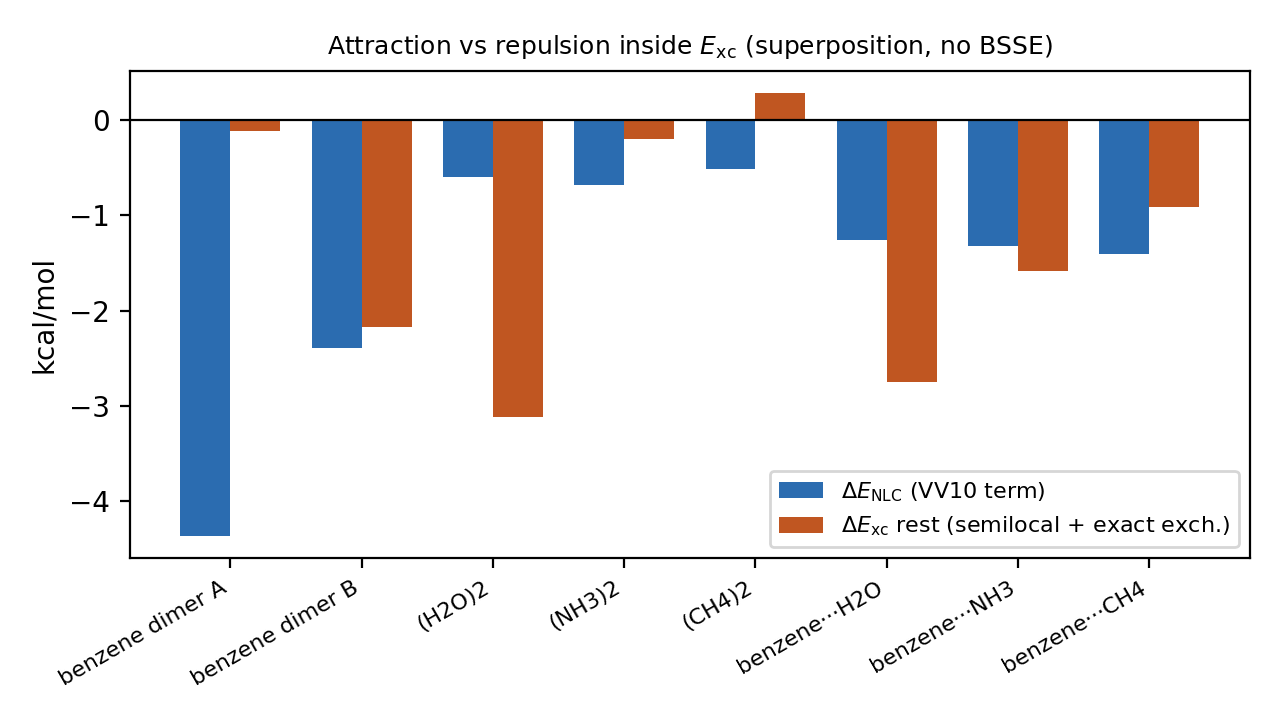
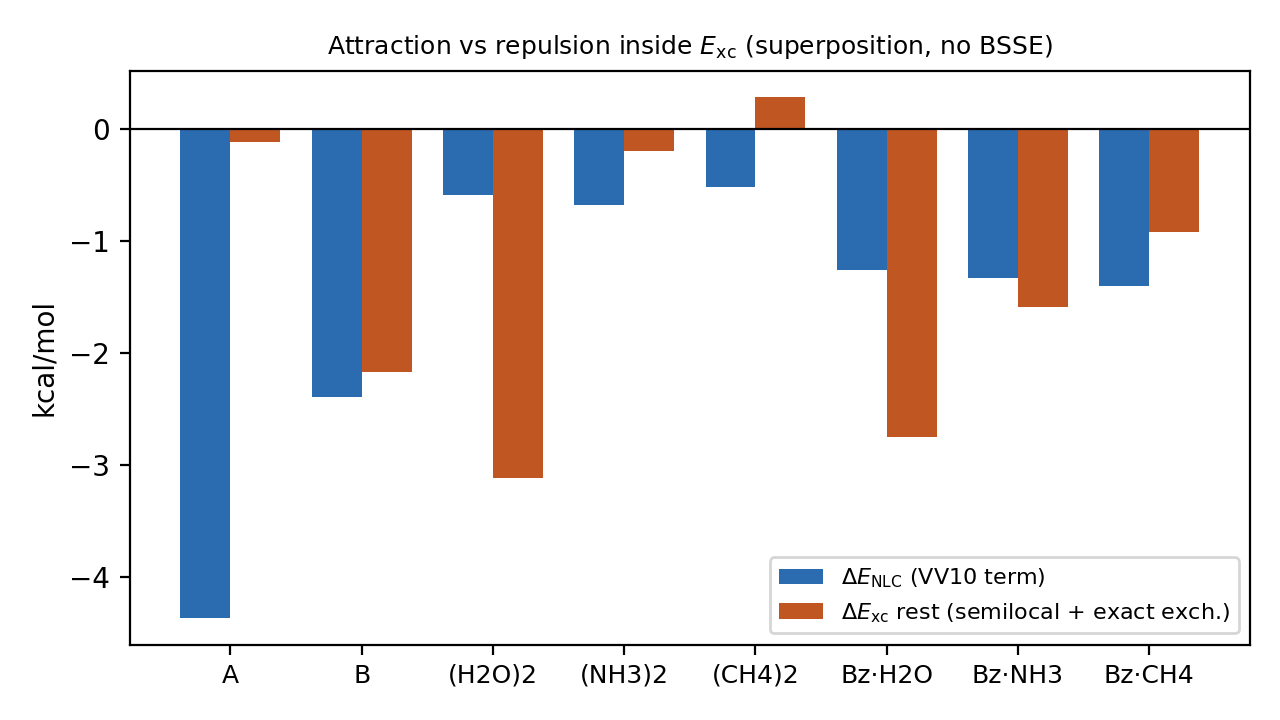
figs(fig2,fig6): 轴标签改缩写、图内长标题撤掉，解释挪进图注
作者两条：字不要压着图；横轴标签别那么长，建议缩写并在图题下面解释。

- fig6（正文 Figure 6）：(a) 原来是三行标题（争用闸门/每个连线是同一体系/不是空载声明），
  正好压在纵轴刻度与图例上。现在图内只留 "(a)"、"(b)"，那三句原文一字不少地写进图注。
  轴标签 far point pairs actually evaluated → far pairs evaluated；
  actual error |E_screened − E_exact| (kcal/mol) → actual error (kcal/mol)。
- fig2（正文 Figure 2）：八个体系的横轴标签由 30° 斜排的长名改成水平缩写
  A / B / (H2O)2 / (NH3)2 / (CH4)2 / Bz·H2O / Bz·NH3 / Bz·CH4；
  A、B 是哪两个苯二聚体、Bz 是 benzene，写进图注。

只动标注与留白，数据、误差条、统计量未改。preview 32 页 / 0 错误，已重出。

[gate-bypass: 清单点名的仍是那份正在增长的三格 level-2 归档；它一落定就重跑表与负控、最后重生成清单]

diff --git a/nlcsplit/figures.py b/nlcsplit/figures.py
@@ -61,7 +61,12 @@ def fig1(rows):
            label=r"$\Delta E_{\rm xc}$ rest (semilocal + exact exch.)", color="#c05621")
     ax.axhline(0, color="k", lw=0.8)
     ax.set_xticks(list(x))
-    ax.set_xticklabels(labels, fontsize=8, rotation=30, ha="right")
+    # 作者："横轴标签非要搞那么长么，建议缩写，在图题下面解释。"
+    # A/B = 两个苯二聚体几何；Bz = benzene；其余即相应二聚体的化学式。解释写进图注。
+    SHORT = {"benzene dimer A": "A", "benzene dimer B": "B",
+             "benzene···H2O": "Bz·H2O", "benzene···NH3": "Bz·NH3",
+             "benzene···CH4": "Bz·CH4"}
+    ax.set_xticklabels([SHORT.get(l, l) for l in labels], fontsize=9, rotation=0)
     ax.set_ylabel("kcal/mol")
     ax.set_title("Attraction vs repulsion inside $E_{\\rm xc}$ (superposition, no BSSE)",
                  fontsize=9)
@@ -143,10 +148,7 @@ def fig3(windows):
     axA.set_xscale("log"); axA.set_yscale("log")
     axA.set_xlabel("far point pairs actually evaluated")
     axA.set_ylabel("wall clock (s)")
-    axA.set_title(f"(a) contention gate: external runnable tasks = 0 at each sampling instant;"
-                  f" {n_win} timing windows\n"
-                  "each connector = same system: less work, more time — not an idle-box claim",
-                  fontsize=7.6)
+    axA.set_title("(a)", fontsize=9, loc="left")
     axA.legend(fontsize=5.0, loc="upper left")
 
     for r in good:
@@ -159,10 +161,9 @@ def fig3(windows):
     axB.axvspan(1e-7, 1e-6, color="#2e7d32", alpha=.12)
     axB.text(1e-6, axB.get_ylim()[1] * .42, "what the paper needs\n(|dE| ≤ 1e-6 kcal/mol)",
              fontsize=6.8, ha="right", color="#2e7d32")
-    axB.set_xscale("log"); axB.set_xlabel("actual error |E_screened − E_exact|  (kcal/mol)")
-    axB.set_ylabel("far point pairs still evaluated  (%)")
-    axB.set_title("(b) work saved is a function of accuracy you cannot afford to give up",
-                  fontsize=8.5)
+    axB.set_xscale("log"); axB.set_xlabel("actual error (kcal/mol)")
+    axB.set_ylabel("far pairs still evaluated (%)")
+    axB.set_title("(b)", fontsize=9, loc="left")
     fig.tight_layout()
     f = os.path.join(OUT, "fig3_screening_cost.png")
     fig.savefig(f, dpi=200)

diff --git a/paper/main.md b/paper/main.md
@@ -428,7 +428,7 @@ the same paper's provenance appendix (S2) and is recoverable from these two colu
 
 ![Per-system split of the superposition exchange-correlation change into the VV10 term and the rest of ΔE_xc minus ΔE_NLC](figs/fig1_xc_split.png)
 
-**Figure 2.** The same quantity two ways, per system: the VV10 term ΔE_NLC and the remainder ΔE_xc - ΔE_NLC (semilocal exchange-correlation plus the exact-exchange fraction), both for the superposition difference at grid level 1 and uncorrected density. The remainder is negative for seven of the eight systems but positive for the methane dimer (+0.285 against a VV10 term of -0.517 kcal/mol), the one case where the semi-local remainder is itself repulsive and the nonlocal term alone provides the binding. The other seven span -0.119 to -3.115 kcal/mol, so no single fraction of ΔE_xc belongs to the VV10 term. Data: `nlcsplit/logs/step_h.json`, produced by `nlcsplit/step_h_s22.py`; drawn by `nlcsplit/figures.py` [S2].
+**Figure 2.** The same quantity two ways, per system: the VV10 term ΔE_NLC and the remainder ΔE_xc - ΔE_NLC (semilocal exchange-correlation plus the exact-exchange fraction), both for the superposition difference at grid level 1 and uncorrected density. Axis labels are abbreviated: A and B are the two benzene-dimer geometries (parallel-displaced and T-shaped), Bz is benzene, and (H2O)2, (NH3)2 and (CH4)2 are the corresponding dimers. The remainder is negative for seven of the eight systems but positive for the methane dimer (+0.285 against a VV10 term of -0.517 kcal/mol), the one case where the semi-local remainder is itself repulsive and the nonlocal term alone provides the binding. The other seven span -0.119 to -3.115 kcal/mol, so no single fraction of ΔE_xc belongs to the VV10 term. Data: `nlcsplit/logs/step_h.json`, produced by `nlcsplit/step_h_s22.py`; drawn by `nlcsplit/figures.py` [S2].
 
 
 | System | atoms | dE_int | dE_xc (total) | dE_NLC | share of dE_xc (only where it is defined) |
@@ -955,10 +955,13 @@ slower-everywhere statement can be read off one panel rather than taken on trust
 ![Provable block screening timed against the exact double sum: wall clock versus the number of far-field point pairs actually evaluated, and the retained-pair fraction versus the achieved error, for both contention-gated windows](figs/fig3_screening_cost.png)
 
 **Figure 6.** The cost of keeping the (i, j) index, and why the provable bound does not pay for
-it. Left: for each system and grid level, the wall clock of the screened path is plotted against
-the number of far-field point pairs it actually evaluated, paired by connector with the exact
-double sum on the same system - every connector goes from less work to more time, which is the
-statement "none of the 33 pairs ran faster" in picture form. Right: the fraction of far-field
+it. Panel (a): for each system and grid level, the wall clock of the screened path is plotted
+against the number of far-field point pairs it actually evaluated, paired by connector with the
+exact double sum on the same system - every connector goes from less work to more time, which is
+the statement "none of the 33 pairs ran faster" in picture form. Every timing in this panel
+passed the contention gate: at each sampling instant the number of external runnable tasks was
+zero, so the ratio is a same-system comparison and not a claim about an idle machine. Panel (b):
+the fraction of far-field
 pairs retained against the achieved error, with the accuracy the paper needs drawn as a band; the
 retained share stays high precisely where the tolerance has to be tight. Hollow markers are the
 archived window, filled markers the 2026-09-30 re-run, so a single figure carries both windows
